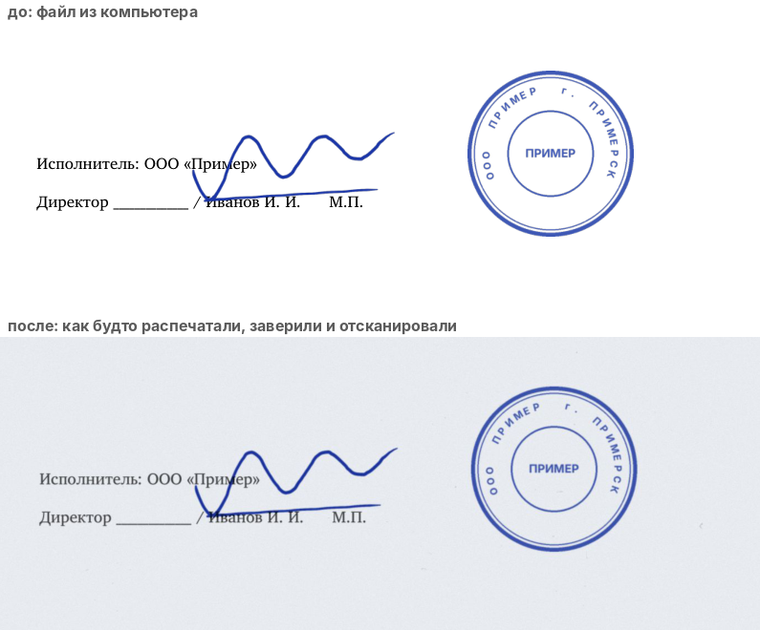
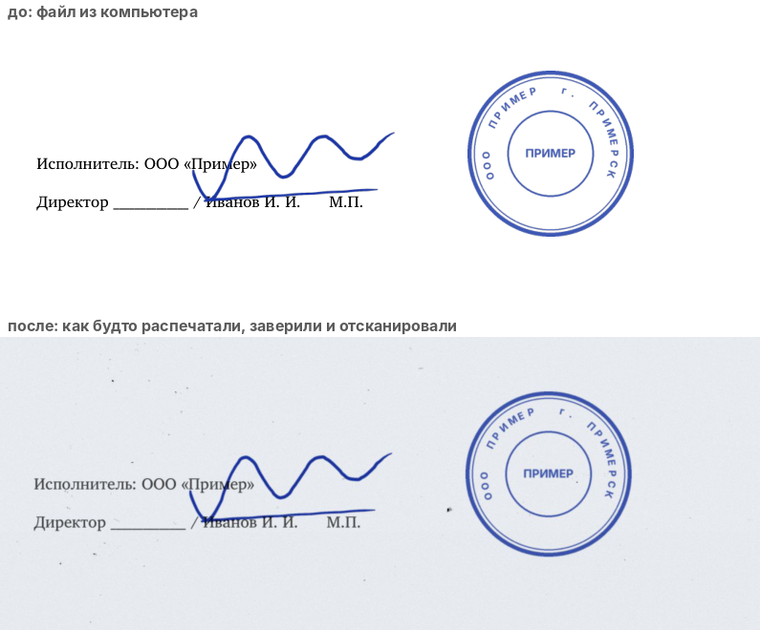
6.10.4: имена файлов акта осмотра не меняются при сохранении в PDF и «как скан»
Claude-Session: https://claude.ai/code/session_01S2yJaDiaX6YUxFfadFNC79

Changed region(s): [[0.6053, 0.6032, 0.8474, 0.9048], [0.0303, 0.6937, 0.5145, 0.8444]]

diff --git a/stamp_studio_canon.py b/stamp_studio_canon.py
@@ -528,7 +528,7 @@ QProgressBar::chunk { background: #d69a33; border-radius: 3px; }
 SETTINGS_JSON = os.path.join(LIB_DIR, "settings.json")
 
 # ---------------------------------------------------------------- версия и обновления
-APP_VERSION = "6.10.3"
+APP_VERSION = "6.10.4"
 EDITION = "canon"                 # main — основная, canon — для сканеров Canon
 APP_TITLE = "Stamp Studio" + (" Canon" if EDITION == "canon" else "")
 GITHUB_URL = "https://github.com/alegawhats-del/StampStudio"
@@ -9283,6 +9283,12 @@ def act_kit_store(val: dict):
                 f.write(base64.b64decode(val[k]))
 
 
+def act_doc_name(name: str) -> bool:
+    """Имя документа акта осмотра («(Kreuzberg) 04.11 Kia Sportage», «Перевод инспекции 04.11 …»):
+    такие имена программа не меняет — ни ИИ, ни шаблонами, ни добавкой «скан»."""
+    return bool(re.match(r"^(\(Kreuzberg\)|Перевод инспекции) \d{2}\.\d{2} \S", str(name or "")))
+
+
 def act_masters_load() -> list:
     return [m for m in (settings_load().get("act_masters") or []) if m.get("name")]
 
@@ -13020,6 +13026,8 @@ class MainWindow(QMainWindow):
         if self.doc_path and os.path.isfile(str(self.doc_path)):
             folder = os.path.dirname(str(self.doc_path))
         name = f"{base} {suffix}.pdf"
+        if act_doc_name(base) and not os.path.exists(os.path.join(folder, f"{base}.pdf")):
+            name = f"{base}.pdf"                   # акт осмотра: имя то же, что у документа
         k = 2
         while os.path.exists(os.path.join(folder, name)):
             name = f"{base} {suffix} {k}.pdf"
@@ -14507,6 +14515,8 @@ class MainWindow(QMainWindow):
         src_name = src_name.replace(" (из изображений)", "").replace(" (из Word)", "") or "документ"
         dlg = SaveDialog(src_name, self, default_dir=self.current_dir(),
                          compress_profile=getattr(self, 'compress_profile', None))
+        if not suggest and act_doc_name(src_name):
+            suggest = src_name                     # у актов осмотра имя файла остаётся как есть
         if isinstance(suggest, str) and suggest:
             dlg.edit_name.setText(suggest)
         else:

diff --git a/stamp_studio.py b/stamp_studio.py
@@ -528,7 +528,7 @@ QProgressBar::chunk { background: #d69a33; border-radius: 3px; }
 SETTINGS_JSON = os.path.join(LIB_DIR, "settings.json")
 
 # ---------------------------------------------------------------- версия и обновления
-APP_VERSION = "6.10.3"
+APP_VERSION = "6.10.4"
 EDITION = "main"                 # main — основная, canon — для сканеров Canon
 APP_TITLE = "Stamp Studio" + (" Canon" if EDITION == "canon" else "")
 GITHUB_URL = "https://github.com/alegawhats-del/StampStudio"
@@ -9284,6 +9284,12 @@ def act_kit_store(val: dict):
                 f.write(base64.b64decode(val[k]))
 
 
+def act_doc_name(name: str) -> bool:
+    """Имя документа акта осмотра («(Kreuzberg) 04.11 Kia Sportage», «Перевод инспекции 04.11 …»):
+    такие имена программа не меняет — ни ИИ, ни шаблонами, ни добавкой «скан»."""
+    return bool(re.match(r"^(\(Kreuzberg\)|Перевод инспекции) \d{2}\.\d{2} \S", str(name or "")))
+
+
 def act_masters_load() -> list:
     return [m for m in (settings_load().get("act_masters") or []) if m.get("name")]
 
@@ -13021,6 +13027,8 @@ class MainWindow(QMainWindow):
         if self.doc_path and os.path.isfile(str(self.doc_path)):
             folder = os.path.dirname(str(self.doc_path))
         name = f"{base} {suffix}.pdf"
+        if act_doc_name(base) and not os.path.exists(os.path.join(folder, f"{base}.pdf")):
+            name = f"{base}.pdf"                   # акт осмотра: имя то же, что у документа
         k = 2
         while os.path.exists(os.path.join(folder, name)):
             name = f"{base} {suffix} {k}.pdf"
@@ -14507,6 +14515,8 @@ class MainWindow(QMainWindow):
         src_name = src_name.replace(" (из изображений)", "").replace(" (из Word)", "") or "документ"
         dlg = SaveDialog(src_name, self, default_dir=self.current_dir(),
                          compress_profile=getattr(self, 'compress_profile', None))
+        if not suggest and act_doc_name(src_name):
+            suggest = src_name                     # у актов осмотра имя файла остаётся как есть
         if isinstance(suggest, str) and suggest:
             dlg.edit_name.setText(suggest)
         else:

diff --git a/tools/make_guide.py b/tools/make_guide.py
@@ -825,7 +825,9 @@ section("Акт осмотра автомобиля",
         "<li><b>Текст перевода</b>: разделы русского акта. Если автомобиль не в идеальном состоянии — поправьте нужный абзац.</li>"
         "<li><b>Создать акт</b>: в открытую папку сохраняются два файла Word, оригинал сразу открывается. "
         "На последней странице уже лежат подпись и печать мастера — подвиньте на место и сохраните как PDF или «Как скан». "
-        "Перевод откройте в списке файлов и сохраните так же.</li></ol>"
+        "Перевод откройте в списке файлов и сохраните так же.</li>"
+        "<li><b>Имена файлов</b> программа ставит сама и не меняет: «(Kreuzberg) 04.11 Kia Sportage» и "
+        "«Перевод инспекции 04.11 Kia Sportage» — дата из акта, марка и модель. PDF и скан получают то же имя.</li></ol>"
         "<p class='note'>Для точного вида оригинала нужен Microsoft Word на компьютере: через него бланк превращается в PDF.</p>")
 
 section("Обновления и клавиши", html)

diff --git a/NOTES.md b/NOTES.md
@@ -1,3 +1,4 @@
+• Акт осмотра: имена файлов не меняются — «(Kreuzberg) 04.11 Kia Sportage» и «Перевод инспекции 04.11 Kia Sportage» (дата из акта, марка и модель); при сохранении в PDF и «как скан» имя остаётся тем же
 • Боковая полоса значков: добавлены «Разместить на листе» и «Акт осмотра» — всё новое теперь есть и там
 • Акт осмотра: в словаре несколько вариантов перевода — привод (Frontantrieb / Vorderradantrieb, Heckantrieb / Hinterradantrieb, Allradantrieb / Allrad / 4x4), коробка (Automatik / Automatikgetriebe, Schaltgetriebe / Manuell), кузов (Crossover / SUV)
 • Акт осмотра: словарь значений пополняется сам — новая пара (вписали сами или перевёл ИИ) запоминается, появляется в списках и уходит в облако
